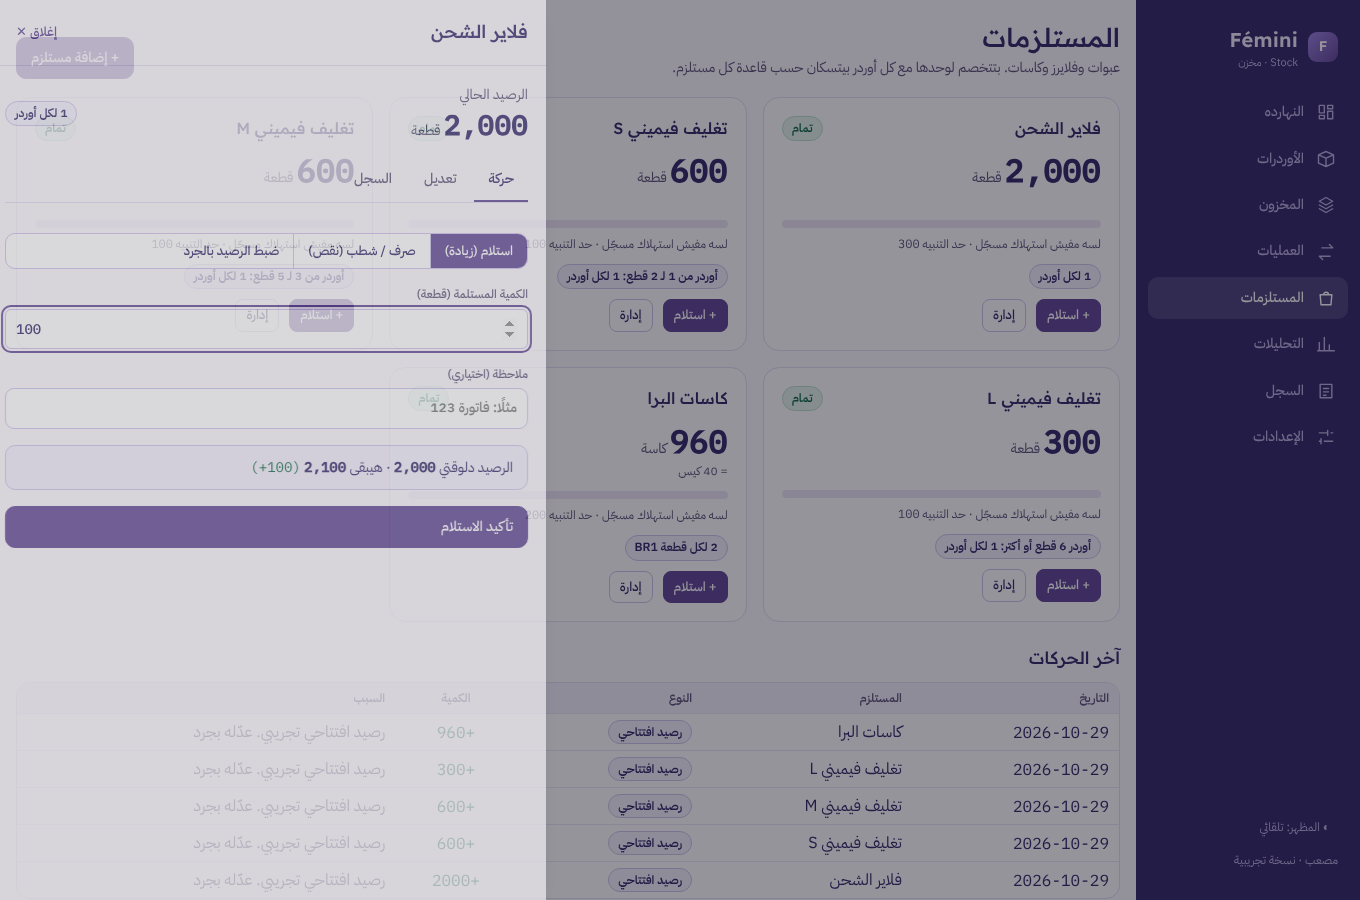
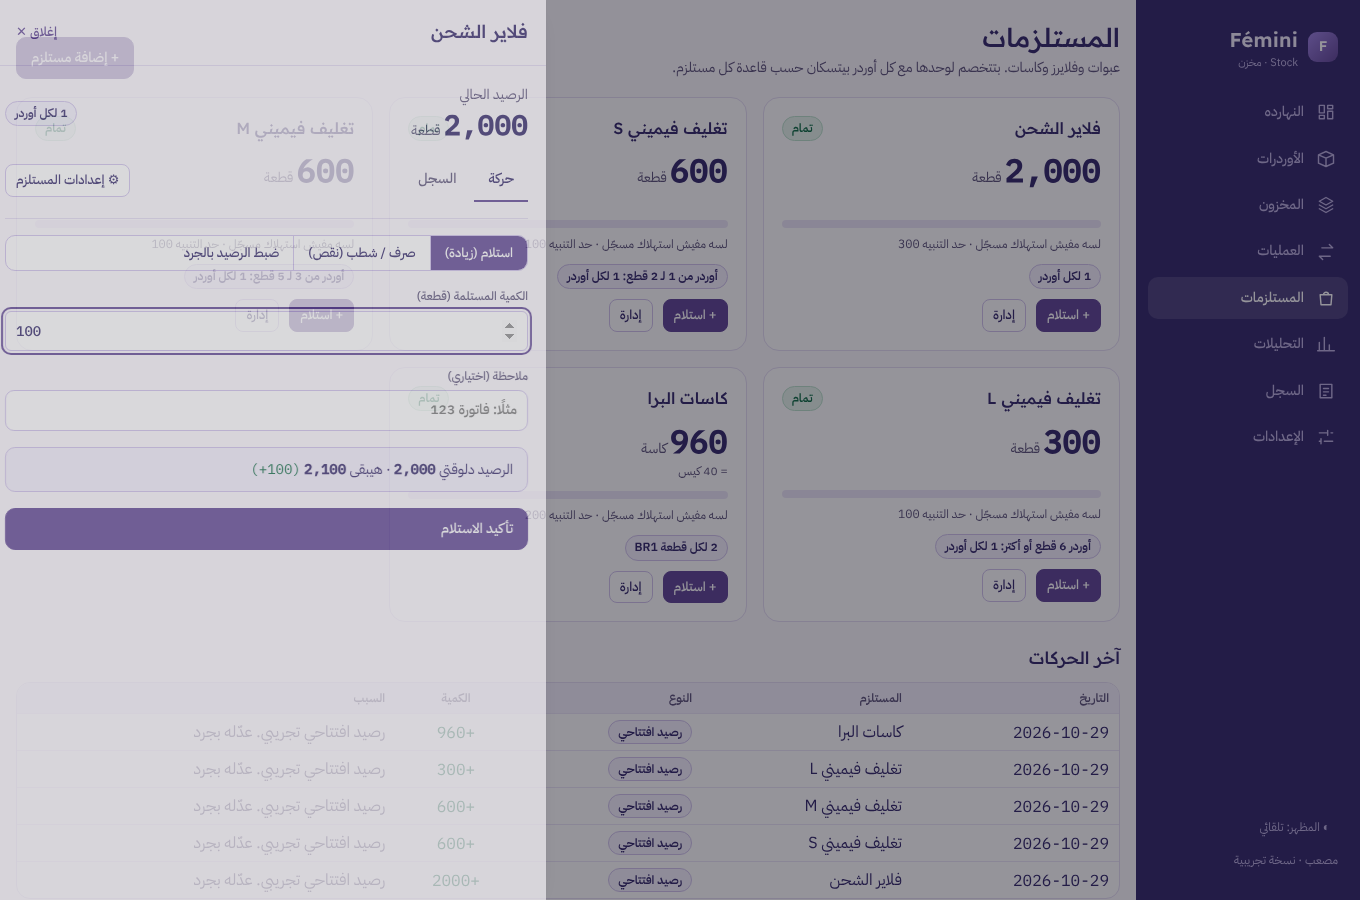
Edition 3: move supply editing out of the tabs into a settings button and the Config page
Claude-Session: https://claude.ai/code/session_018o5VXy9o9LKrNtTNnvovPS

diff --git a/apps/edition-3/index.html b/apps/edition-3/index.html
@@ -672,7 +672,8 @@ function supSheet(s){
   const it=supItem(s.id);if(!it)return {title:'',body:''};
   const b=supBal(it.id);
   let body='<div class="row sp"><div><div class="muted">الرصيد الحالي</div><b class="n" style="font:600 28px var(--f-mono)">'+fmt(b)+'</b> <span class="muted">'+esc(it.unit)+'</span>'+(packText(it,b)?'<div class="muted" style="font-size:12px">= '+esc(packText(it,b))+'</div>':'')+'</div><span class="pill">'+esc(ruleText(it))+'</span></div>';
-  body+='<div class="tabs" role="tablist">'+[['move','حركة'],['edit','تعديل'],['log','السجل']].map(t=>'<button role="tab" aria-selected="'+(s.tab===t[0])+'" data-a="suptab" data-v="'+t[0]+'">'+t[1]+'</button>').join('')+'</div>';
+  if(s.tab==='edit')body+='<div class="row sp"><button class="btn sm ghost" data-a="suptab" data-v="move">← رجوع للحركات</button><b>إعدادات المستلزم</b></div>';
+  else body+='<div class="row sp" style="gap:6px"><div class="tabs" role="tablist" style="margin:0;border:0">'+[['move','حركة'],['log','السجل']].map(t=>'<button role="tab" aria-selected="'+(s.tab===t[0])+'" data-a="suptab" data-v="'+t[0]+'">'+t[1]+'</button>').join('')+'</div><button class="btn sm" data-a="supedit" data-tip="الاسم والوحدة والعبوة وحد التنبيه وقاعدة الخصم والأرشفة">⚙ إعدادات المستلزم</button></div><hr style="border:0;border-top:1px solid var(--line);margin:0">';
   if(s.tab==='move'){
     const m=supMove(s);
     body+='<div class="seg" role="group" aria-label="نوع الحركة">'+[['rcv','استلام (زيادة)'],['issue','صرف / شطب (نقص)'],['count','ضبط الرصيد بالجرد']].map(a=>'<button type="button" aria-pressed="'+(s.act===a[0])+'" data-a="supact" data-v="'+a[0]+'">'+a[1]+'</button>').join('')+'</div>';
@@ -1077,7 +1078,7 @@ function vConfig(){
   const stf=(f,l,u)=>'<label class="f">'+l+'<span class="row" style="gap:6px"><input type="number" min="0" value="'+S.st[f]+'" data-c="st" data-f="'+f+'">'+(u?'<span class="muted">'+u+'</span>':'')+'</span></label>';
   let h=top('الإعدادات','حدود التنبيه وقواعد المستلزمات والتكلفة.','');
   h+='<div class="grid g2"><section class="card"><h2>التنبيهات</h2><div class="grid g2">'+stf('lookback','فترة حساب السحب','يوم')+stf('cover','نبّهني لما التغطية أقل من','يوم')+stf('target','هدف التصنيع','يوم تغطية')+stf('excess','زيادة عن اللازم بعد','يوم')+'</div></section>';
-  h+='<section class="card"><h2>المستلزمات</h2><p class="muted" style="margin-bottom:10px">قواعد الخصم التلقائي (فلاير، تغليف، كاسات) بقت في صفحة المستلزمات، لكل مستلزم على حدة.</p><button class="btn" data-a="go" data-t="supplies">افتح المستلزمات</button></section>';
+  h+='<section class="card"><h2>المستلزمات</h2><p class="muted" style="margin-bottom:10px">الاسم والوحدة والعبوة وحد التنبيه وقاعدة الخصم التلقائي لكل مستلزم. الاستلام والصرف والجرد من صفحة المستلزمات.</p><div class="tw"><table class="t-sm"><tbody>'+S.sup.items.map(i=>'<tr style="'+(i.arch?'opacity:.6':'')+'"><td><b>'+esc(i.name)+'</b>'+(i.arch?' '+pill('','مؤرشف'):'')+'</td><td class="muted">'+esc(ruleText(i))+'</td><td>'+(i.arch?'<button class="btn sm" data-a="suprestore" data-id="'+i.id+'">استرجاع</button>':'<button class="btn sm" data-a="supconf" data-id="'+i.id+'">تعديل</button>')+'</td></tr>').join('')+'</tbody></table></div><div class="row" style="margin-top:10px"><button class="btn sm" data-a="supnew">+ إضافة مستلزم</button><button class="btn sm ghost" data-a="go" data-t="supplies">افتح صفحة المستلزمات</button></div></section>';
   h+='<section class="card"><h2>المستخدمين</h2><label class="f">اسم المستخدم الحالي (يظهر في السجل)<input value="'+esc(S.actor)+'" data-c="actor"></label><p class="muted" style="margin-top:8px;font-size:12px">السيستم مفتوح للكل في فترة التجربة. الصلاحيات هتتفصل بعدين على مستويين بس.</p></section>';
   h+='<section class="card"><h2>البيانات</h2><p class="muted" style="margin-bottom:10px">البيانات متخزنة في المتصفح ده بس. ده نموذج تجريبي.</p>'+(UI.confirmReset?'<div class="msg crit">هتمسح كل العمليات والسكان وترجع للبيانات الأصلية. متأكد؟<div class="row" style="margin-top:8px"><button class="btn danger sm" data-a="reset2">أيوه، امسح</button><button class="btn sm" data-a="reset">لأ</button></div></div>':'<button class="btn danger" data-a="reset">رجوع للبيانات الأصلية</button>')+'</section></div>';
   const nimg=MORDER.filter(m=>imgOf(m)).length;
@@ -1218,6 +1219,8 @@ const ACT={
     d.hdr.unk=unk;dirty();render();
   },
   supopen:el=>{const act=el.dataset.act,it=supItem(el.dataset.id);UI.sheet={kind:'sup',id:it.id,tab:act==='manage'?'move':'move',act:act==='rcv'?'rcv':'rcv',qty:'',mode:'unit',reason:'استخدام يدوي',note:'',f:null,err:'',arch:false,undo:null};render();setTimeout(()=>{const q=$('#supq');if(q)q.focus()},60)},
+  supedit:()=>{const s=UI.sheet;s.tab='edit';s.err='';s.arch=false;s.f=formOf(supItem(s.id));render()},
+  supconf:el=>{const it=supItem(el.dataset.id);UI.sheet={kind:'sup',id:it.id,tab:'edit',act:'rcv',qty:'',mode:'unit',reason:'استخدام يدوي',note:'',f:formOf(it),err:'',arch:false,undo:null};render()},
   supnew:()=>{UI.sheet={kind:'supnew',f:blankForm(),err:''};render()},
   suptab:el=>{const s=UI.sheet;s.tab=el.dataset.v;s.err='';s.arch=false;s.undo=null;if(s.tab==='edit'&&!s.f)s.f=formOf(supItem(s.id));render()},
   supact:el=>{const s=UI.sheet;s.act=el.dataset.v;s.qty='';render();setTimeout(()=>{const q=$('#supq');if(q)q.focus()},40)},

diff --git a/src/edition-3/p4c_views.js b/src/edition-3/p4c_views.js
@@ -69,7 +69,7 @@ function vConfig(){
   const stf=(f,l,u)=>'<label class="f">'+l+'<span class="row" style="gap:6px"><input type="number" min="0" value="'+S.st[f]+'" data-c="st" data-f="'+f+'">'+(u?'<span class="muted">'+u+'</span>':'')+'</span></label>';
   let h=top('الإعدادات','حدود التنبيه وقواعد المستلزمات والتكلفة.','');
   h+='<div class="grid g2"><section class="card"><h2>التنبيهات</h2><div class="grid g2">'+stf('lookback','فترة حساب السحب','يوم')+stf('cover','نبّهني لما التغطية أقل من','يوم')+stf('target','هدف التصنيع','يوم تغطية')+stf('excess','زيادة عن اللازم بعد','يوم')+'</div></section>';
-  h+='<section class="card"><h2>المستلزمات</h2><p class="muted" style="margin-bottom:10px">قواعد الخصم التلقائي (فلاير، تغليف، كاسات) بقت في صفحة المستلزمات، لكل مستلزم على حدة.</p><button class="btn" data-a="go" data-t="supplies">افتح المستلزمات</button></section>';
+  h+='<section class="card"><h2>المستلزمات</h2><p class="muted" style="margin-bottom:10px">الاسم والوحدة والعبوة وحد التنبيه وقاعدة الخصم التلقائي لكل مستلزم. الاستلام والصرف والجرد من صفحة المستلزمات.</p><div class="tw"><table class="t-sm"><tbody>'+S.sup.items.map(i=>'<tr style="'+(i.arch?'opacity:.6':'')+'"><td><b>'+esc(i.name)+'</b>'+(i.arch?' '+pill('','مؤرشف'):'')+'</td><td class="muted">'+esc(ruleText(i))+'</td><td>'+(i.arch?'<button class="btn sm" data-a="suprestore" data-id="'+i.id+'">استرجاع</button>':'<button class="btn sm" data-a="supconf" data-id="'+i.id+'">تعديل</button>')+'</td></tr>').join('')+'</tbody></table></div><div class="row" style="margin-top:10px"><button class="btn sm" data-a="supnew">+ إضافة مستلزم</button><button class="btn sm ghost" data-a="go" data-t="supplies">افتح صفحة المستلزمات</button></div></section>';
   h+='<section class="card"><h2>المستخدمين</h2><label class="f">اسم المستخدم الحالي (يظهر في السجل)<input value="'+esc(S.actor)+'" data-c="actor"></label><p class="muted" style="margin-top:8px;font-size:12px">السيستم مفتوح للكل في فترة التجربة. الصلاحيات هتتفصل بعدين على مستويين بس.</p></section>';
   h+='<section class="card"><h2>البيانات</h2><p class="muted" style="margin-bottom:10px">البيانات متخزنة في المتصفح ده بس. ده نموذج تجريبي.</p>'+(UI.confirmReset?'<div class="msg crit">هتمسح كل العمليات والسكان وترجع للبيانات الأصلية. متأكد؟<div class="row" style="margin-top:8px"><button class="btn danger sm" data-a="reset2">أيوه، امسح</button><button class="btn sm" data-a="reset">لأ</button></div></div>':'<button class="btn danger" data-a="reset">رجوع للبيانات الأصلية</button>')+'</section></div>';
   const nimg=MORDER.filter(m=>imgOf(m)).length;

diff --git a/tests/edition3_supplies_test.js b/tests/edition3_supplies_test.js
@@ -47,12 +47,12 @@ const { chromium } = require('playwright');
   const cup=await p.evaluate(()=>__F.S().sup.log.filter(e=>e.item==='CUP'&&e.kind==='auto').reduce((a,e)=>a+e.q,0));ok('cups auto consumed',cup<0);
   // edit rule then reverse scan restores
   await p.click('[data-a=go][data-t=supplies]');
-  await p.click('[data-a=supopen][data-id='+newId+'][data-act=manage]');await p.click('[data-a=suptab][data-v=edit]');await p.fill('input[data-f=name]','شريط لاصق شفاف');await p.click('[data-a=supsave]');await p.waitForTimeout(100);
+  await p.click('[data-a=supopen][data-id='+newId+'][data-act=manage]');await p.click('[data-a=supedit]');await p.fill('input[data-f=name]','شريط لاصق شفاف');await p.click('[data-a=supsave]');await p.waitForTimeout(100);
   ok('rename saved',(await p.evaluate(i=>__F.S().sup.items.find(x=>x.id===i).name,newId))==='شريط لاصق شفاف');
   await p.click('[data-a=go][data-t=ops]');await p.click('tbody tr[data-a=opendoc]');await p.click('[data-a=reverse]');await p.waitForTimeout(150);
   ok('reverse scan restores supplies',(await bal(newId))===50);
   // archive two-step
-  await p.click('[data-a=go][data-t=supplies]');await p.click('[data-a=supopen][data-id='+newId+'][data-act=manage]');await p.click('[data-a=suptab][data-v=edit]');
+  await p.click('[data-a=go][data-t=supplies]');await p.click('[data-a=supopen][data-id='+newId+'][data-act=manage]');await p.click('[data-a=supedit]');
   await p.click('[data-a=suparch]');ok('archive asks confirmation',await p.locator('[data-a=suparch2]').count()===1);
   await p.click('[data-a=suparch2]');await p.waitForTimeout(100);ok('archived hidden',await p.locator('.grid.g3 > section.card').count()===5);
   await p.click('[data-a=suparchview]');await p.click('[data-a=suprestore]');await p.waitForTimeout(100);
@@ -61,6 +61,8 @@ const { chromium } = require('playwright');
   await p.click('[data-a=supopen][data-id=FLY][data-act=manage]');await p.click('[data-a=suptab][data-v=log]');
   await p.click('[data-a=supundo]');ok('undo asks confirm',await p.locator('[data-a=supundo2]').count()===1);
   const fb=await bal('FLY');await p.click('[data-a=supundo2]');await p.waitForTimeout(100);ok('log undo changes balance',(await bal('FLY'))!==fb);
+  await p.keyboard.press('Escape');await p.click('[data-a=go][data-t=supplies]');await p.click('[data-a=supopen][data-id=FLY][data-act=manage]');ok('no edit tab in tabs',!(await p.locator('.tabs [data-v=edit]').count())&&await p.locator('[data-a=supedit]').count()===1);await p.screenshot({path:'sp_gear.png'});await p.keyboard.press('Escape');
+  await p.click('[data-a=go][data-t=config]');await p.click('[data-a=supconf][data-id=FLY]');ok('config opens edit form',await p.locator('input[data-f=name]').count()===1);await p.click('[data-a=closesheet]');
   // today alert + mobile
   await p.keyboard.press('Escape');
   await p.setViewportSize({width:400,height:800});await p.click('[data-a=go][data-t=supplies]');

diff --git a/src/edition-3/p3b_sup.js b/src/edition-3/p3b_sup.js
@@ -132,7 +132,8 @@ function supSheet(s){
   const it=supItem(s.id);if(!it)return {title:'',body:''};
   const b=supBal(it.id);
   let body='<div class="row sp"><div><div class="muted">الرصيد الحالي</div><b class="n" style="font:600 28px var(--f-mono)">'+fmt(b)+'</b> <span class="muted">'+esc(it.unit)+'</span>'+(packText(it,b)?'<div class="muted" style="font-size:12px">= '+esc(packText(it,b))+'</div>':'')+'</div><span class="pill">'+esc(ruleText(it))+'</span></div>';
-  body+='<div class="tabs" role="tablist">'+[['move','حركة'],['edit','تعديل'],['log','السجل']].map(t=>'<button role="tab" aria-selected="'+(s.tab===t[0])+'" data-a="suptab" data-v="'+t[0]+'">'+t[1]+'</button>').join('')+'</div>';
+  if(s.tab==='edit')body+='<div class="row sp"><button class="btn sm ghost" data-a="suptab" data-v="move">← رجوع للحركات</button><b>إعدادات المستلزم</b></div>';
+  else body+='<div class="row sp" style="gap:6px"><div class="tabs" role="tablist" style="margin:0;border:0">'+[['move','حركة'],['log','السجل']].map(t=>'<button role="tab" aria-selected="'+(s.tab===t[0])+'" data-a="suptab" data-v="'+t[0]+'">'+t[1]+'</button>').join('')+'</div><button class="btn sm" data-a="supedit" data-tip="الاسم والوحدة والعبوة وحد التنبيه وقاعدة الخصم والأرشفة">⚙ إعدادات المستلزم</button></div><hr style="border:0;border-top:1px solid var(--line);margin:0">';
   if(s.tab==='move'){
     const m=supMove(s);
     body+='<div class="seg" role="group" aria-label="نوع الحركة">'+[['rcv','استلام (زيادة)'],['issue','صرف / شطب (نقص)'],['count','ضبط الرصيد بالجرد']].map(a=>'<button type="button" aria-pressed="'+(s.act===a[0])+'" data-a="supact" data-v="'+a[0]+'">'+a[1]+'</button>').join('')+'</div>';

diff --git a/src/edition-3/p5_app.js b/src/edition-3/p5_app.js
@@ -130,6 +130,8 @@ const ACT={
     d.hdr.unk=unk;dirty();render();
   },
   supopen:el=>{const act=el.dataset.act,it=supItem(el.dataset.id);UI.sheet={kind:'sup',id:it.id,tab:act==='manage'?'move':'move',act:act==='rcv'?'rcv':'rcv',qty:'',mode:'unit',reason:'استخدام يدوي',note:'',f:null,err:'',arch:false,undo:null};render();setTimeout(()=>{const q=$('#supq');if(q)q.focus()},60)},
+  supedit:()=>{const s=UI.sheet;s.tab='edit';s.err='';s.arch=false;s.f=formOf(supItem(s.id));render()},
+  supconf:el=>{const it=supItem(el.dataset.id);UI.sheet={kind:'sup',id:it.id,tab:'edit',act:'rcv',qty:'',mode:'unit',reason:'استخدام يدوي',note:'',f:formOf(it),err:'',arch:false,undo:null};render()},
   supnew:()=>{UI.sheet={kind:'supnew',f:blankForm(),err:''};render()},
   suptab:el=>{const s=UI.sheet;s.tab=el.dataset.v;s.err='';s.arch=false;s.undo=null;if(s.tab==='edit'&&!s.f)s.f=formOf(supItem(s.id));render()},
   supact:el=>{const s=UI.sheet;s.act=el.dataset.v;s.qty='';render();setTimeout(()=>{const q=$('#supq');if(q)q.focus()},40)},
